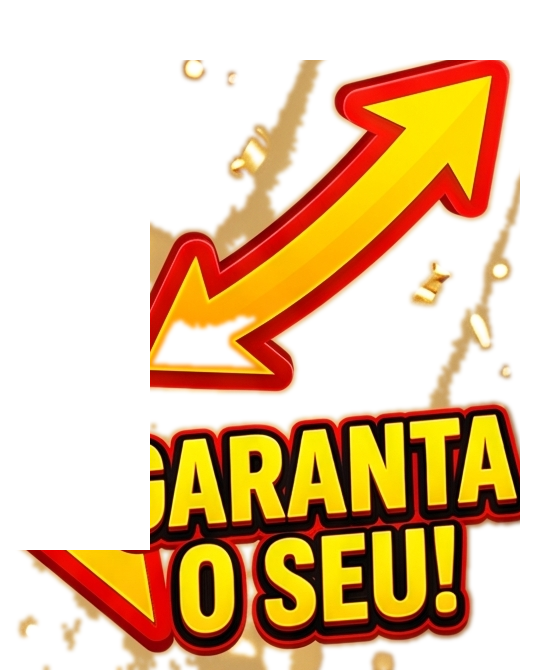
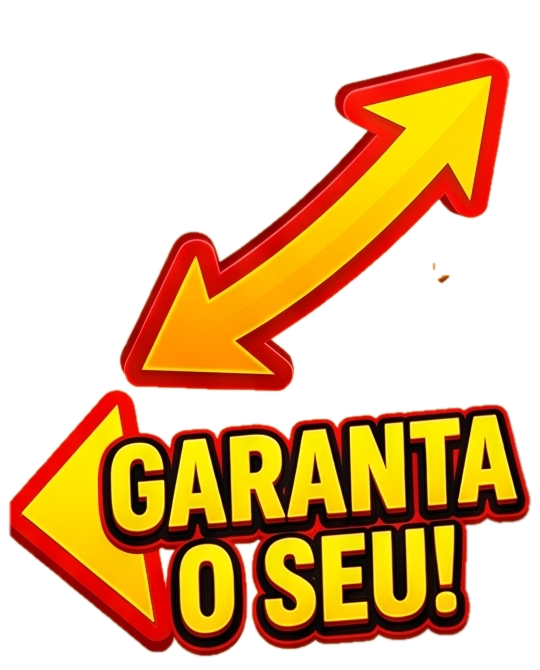
fix(capas): remocao inteligente de cenario com opencv grabcut e conserto da seta cta sem cortes

diff --git a/app/services/thumbnail_engine.py b/app/services/thumbnail_engine.py
@@ -91,6 +91,44 @@ def desenhar_texto_3d_luxo(draw, pos, texto, font, cor_face, cor_extrusao=(170, 
     draw.text((x, y), texto, font=font, fill=cor_face)
 
 
+def recortar_produto_inteligente(img_input) -> Image.Image:
+    """Recorta produto/modelo eliminando paredes e cenários via OpenCV GrabCut."""
+    try:
+        import cv2
+        import numpy as np
+        
+        if isinstance(img_input, str):
+            cv_img = cv2.imread(img_input)
+        else:
+            # Converte PIL Image para numpy array BGR
+            pil_rgb = img_input.convert("RGB")
+            cv_img = cv2.cvtColor(np.array(pil_rgb), cv2.COLOR_RGB2BGR)
+            
+        h, w = cv_img.shape[:2]
+        mask = np.zeros((h, w), np.uint8)
+        bgdModel = np.zeros((1, 65), np.float64)
+        fgdModel = np.zeros((1, 65), np.float64)
+        
+        rect = (15, 10, w - 30, h - 20)
+        cv2.grabCut(cv_img, mask, rect, bgdModel, fgdModel, 5, cv2.GC_INIT_WITH_RECT)
+        mask2 = np.where((mask == 2) | (mask == 0), 0, 1).astype('uint8')
+        
+        kernel = cv2.getStructuringElement(cv2.MORPH_ELLIPSE, (5, 5))
+        mask_closed = cv2.morphologyEx(mask2, cv2.MORPH_CLOSE, kernel)
+        mask_smooth = cv2.GaussianBlur(mask_closed * 255, (7, 7), 0)
+        
+        b, g, r = cv2.split(cv_img)
+        rgba = cv2.merge([r, g, b, mask_smooth])
+        res = Image.fromarray(rgba)
+        bbox = res.getbbox()
+        if bbox:
+            res = res.crop(bbox)
+        return res
+    except Exception as e:
+        logger.debug(f"Aviso no recorte inteligente: {e}")
+        return img_input if isinstance(img_input, Image.Image) else Image.open(img_input)
+
+
 def _compor_capa_vitrine_afiliado(canvas: Image.Image, dados_capa: Dict[str, str]) -> Image.Image:
     """Compõe a vitrine de alta conversão idêntica ao benchmark de luxo (Palco Dourado + 3D Ouro)."""
     # 1. Se existir o master stage limpo de 1536x2752, utiliza como base oficial
@@ -102,32 +140,31 @@ def _compor_capa_vitrine_afiliado(canvas: Image.Image, dados_capa: Dict[str, str
         seam = base_canvas.crop((0, 1980, w, 2060)).filter(ImageFilter.GaussianBlur(10))
         base_canvas.paste(seam, (0, 1980))
         
-        # Produto recortado ou do canvas atual sobre o palco
-        # Se o canvas de entrada tiver produto isolado
-        if canvas.size != (w, h):
-            # Projeta o conteúdo no centro do palco dourado
-            cw = int(w * 0.76)
-            ch = int(canvas.height * (cw / canvas.width))
-            if ch > int(h * 0.58):
-                ch = int(h * 0.58)
-                cw = int(canvas.width * (ch / canvas.height))
-            prod_resized = canvas.resize((cw, ch), Image.LANCZOS).convert("RGBA")
-            
-            # Sombra de contato difusa no palco
-            shadow_layer = Image.new("RGBA", (w, h), (0, 0, 0, 0))
-            d_sh = ImageDraw.Draw(shadow_layer)
-            sh_cx = w // 2
-            sh_cy = 2125
-            sh_rx = int(cw * 0.36)
-            sh_ry = 42
-            d_sh.ellipse([sh_cx - sh_rx, sh_cy - sh_ry, sh_cx + sh_rx, sh_cy + sh_ry], fill=(15, 10, 5, 140))
-            shadow_layer = shadow_layer.filter(ImageFilter.GaussianBlur(16))
-            base_canvas.paste(shadow_layer, (0, 0), shadow_layer)
-            
-            # Cola o produto
-            px = (w - cw) // 2
-            py = 2125 - ch + 40
-            base_canvas.paste(prod_resized, (px, py), prod_resized)
+        # Produto: aplica recorte inteligente para remover paredes e cenários
+        prod_recortado = recortar_produto_inteligente(canvas)
+        
+        cw = int(w * 0.74)
+        ch = int(prod_recortado.height * (cw / prod_recortado.width))
+        if ch > int(h * 0.58):
+            ch = int(h * 0.58)
+            cw = int(prod_recortado.width * (ch / prod_recortado.height))
+        prod_resized = prod_recortado.resize((cw, ch), Image.LANCZOS).convert("RGBA")
+        
+        # Sombra de contato difusa no palco
+        shadow_layer = Image.new("RGBA", (w, h), (0, 0, 0, 0))
+        d_sh = ImageDraw.Draw(shadow_layer)
+        sh_cx = w // 2
+        sh_cy = 2125
+        sh_rx = int(cw * 0.35)
+        sh_ry = 42
+        d_sh.ellipse([sh_cx - sh_rx, sh_cy - sh_ry, sh_cx + sh_rx, sh_cy + sh_ry], fill=(15, 10, 5, 140))
+        shadow_layer = shadow_layer.filter(ImageFilter.GaussianBlur(16))
+        base_canvas.paste(shadow_layer, (0, 0), shadow_layer)
+        
+        # Cola o produto
+        px = (w - cw) // 2
+        py = 2125 - ch + 40
+        base_canvas.paste(prod_resized, (px, py), prod_resized)
         canvas_rgba = base_canvas
     else:
         w, h = canvas.size
